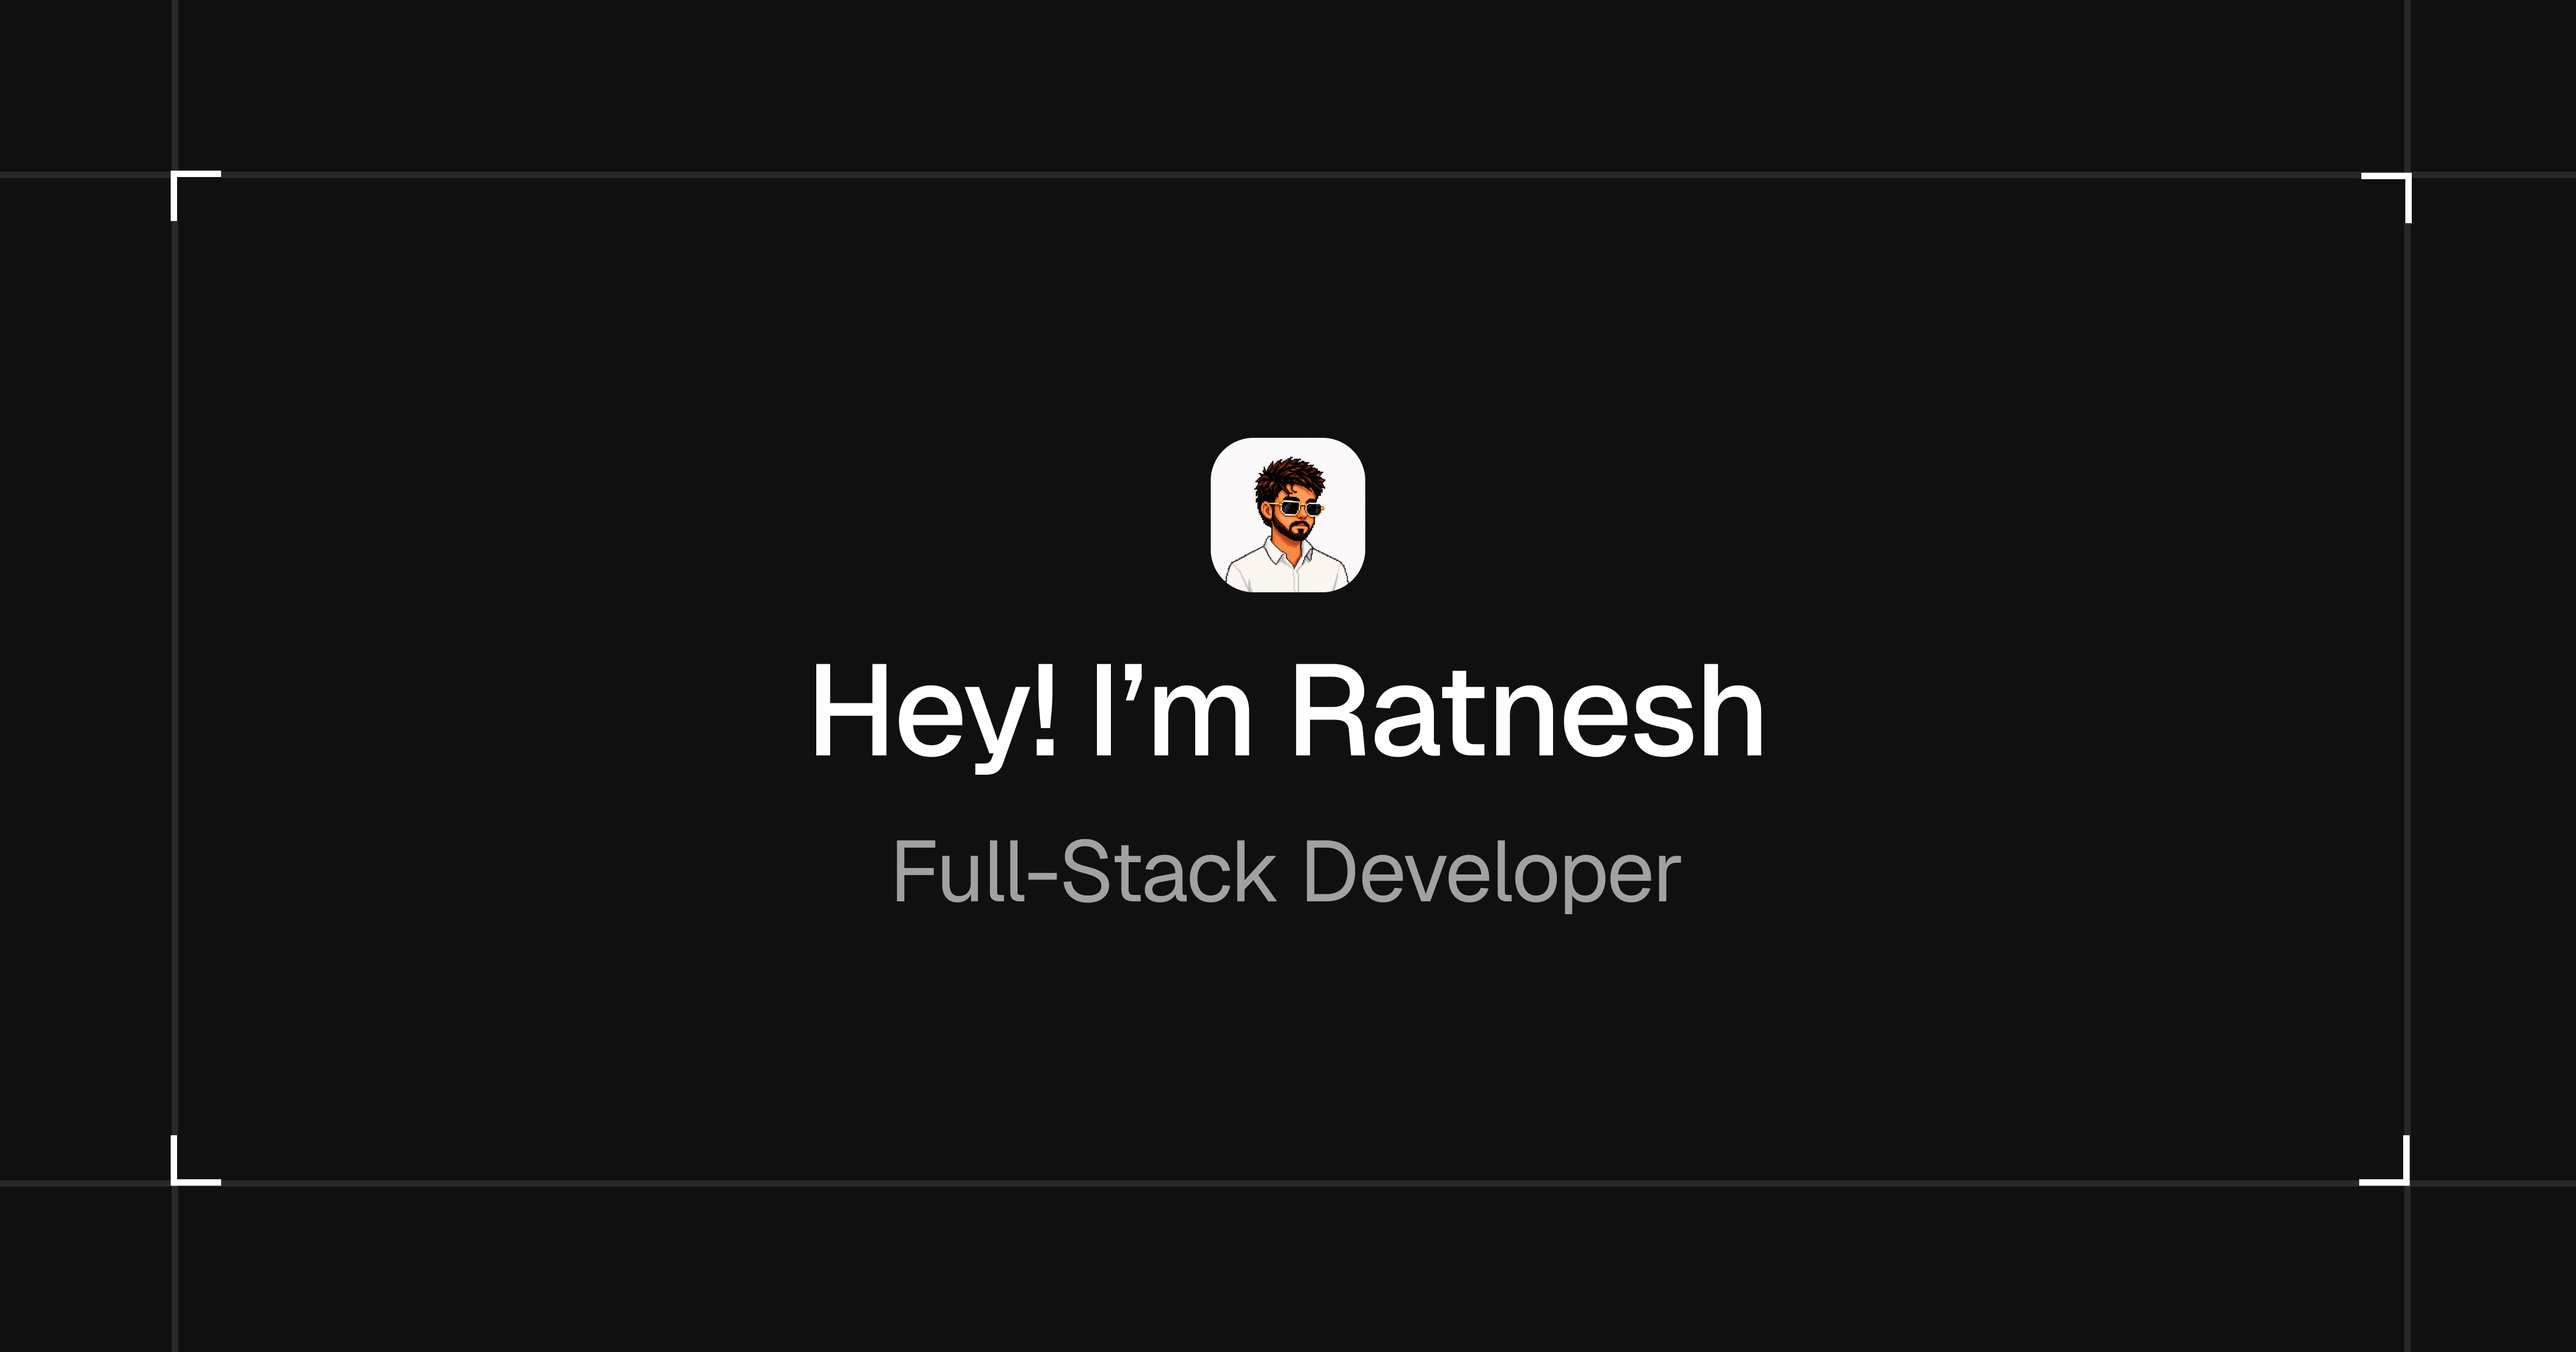
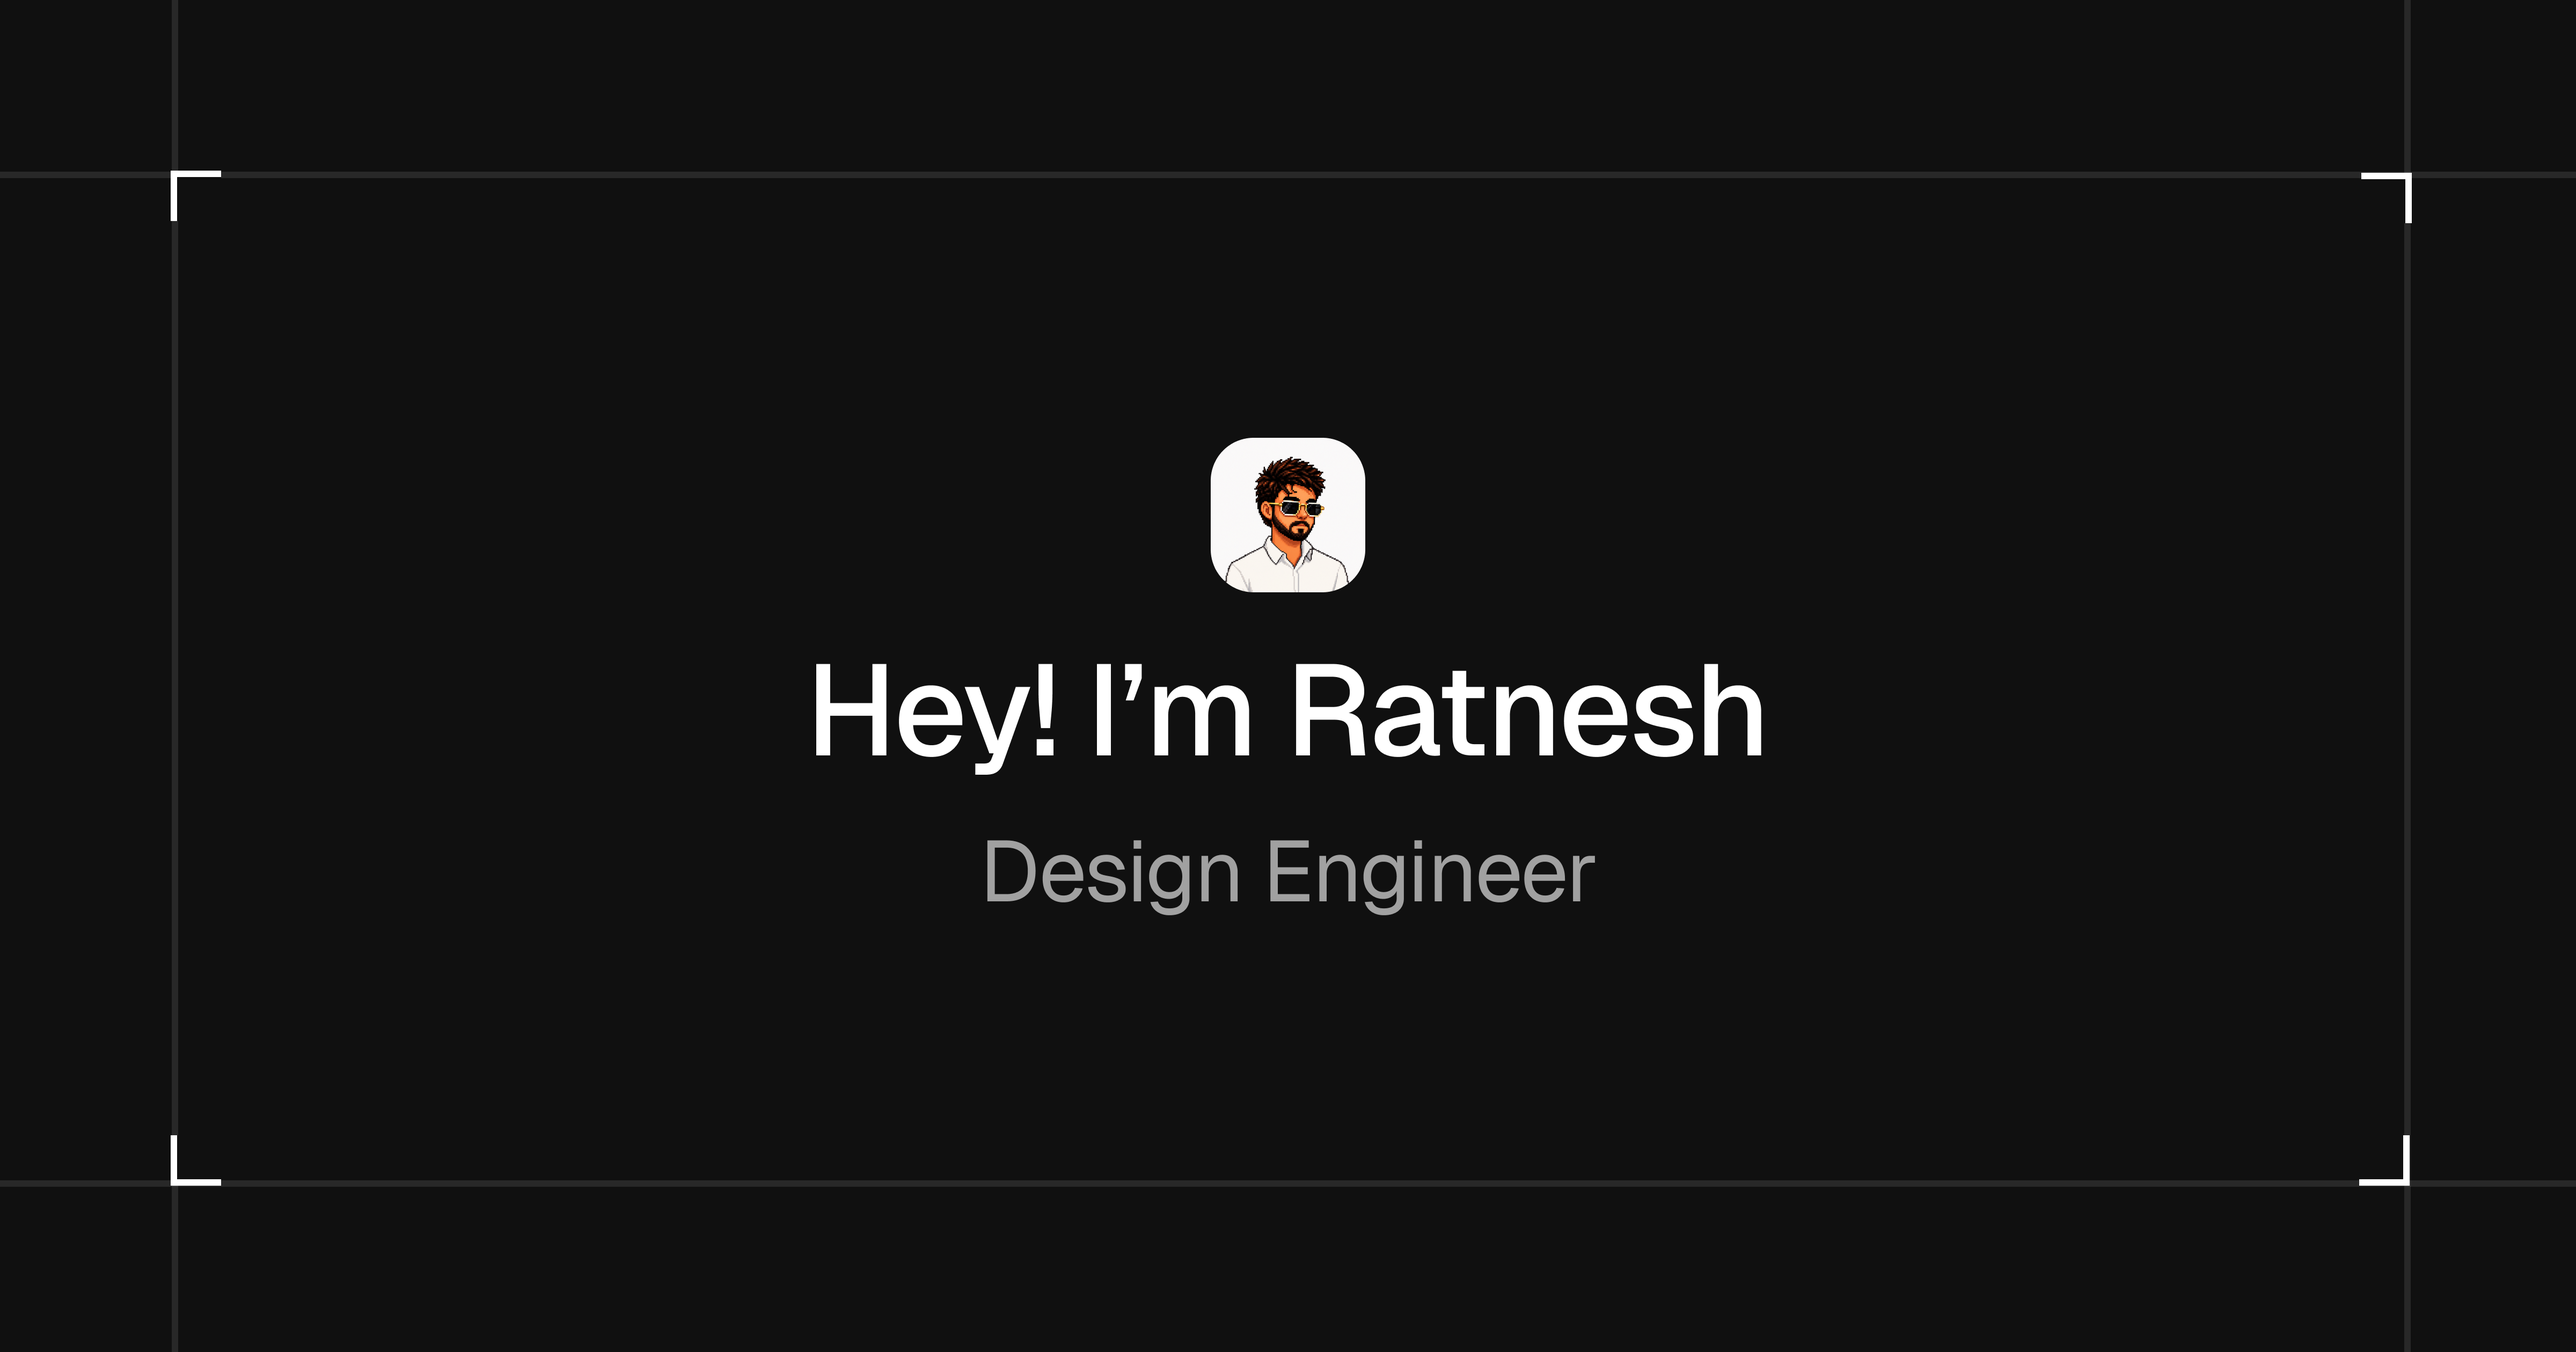
chore: transition title and role to design engineer

Changed region(s): [[0.3438, 0.619, 0.6562, 0.681]]

diff --git a/src/config/metadata.ts b/src/config/metadata.ts
@@ -5,7 +5,7 @@ import { SITE_CONFIG, X_USERNAME } from "./site";
 export const defaultWebsiteMetadata: Metadata = {
   metadataBase: new URL(SITE_CONFIG.url),
   title: {
-    default: `${SITE_CONFIG.name} \u2013 Developer`,
+    default: `${SITE_CONFIG.name} \u2013 Design Engineer`,
     template: `%s | ${SITE_CONFIG.name}`,
   },
   description: SITE_CONFIG.description,
@@ -21,7 +21,7 @@ export const defaultWebsiteMetadata: Metadata = {
     type: "website",
     locale: "en_US",
     url: SITE_CONFIG.url,
-    title: `${SITE_CONFIG.name} \u2013 Developer`,
+    title: `${SITE_CONFIG.name} \u2013 Design Engineer`,
     description: SITE_CONFIG.description,
     siteName: SITE_CONFIG.name,
     images: [
@@ -29,13 +29,13 @@ export const defaultWebsiteMetadata: Metadata = {
         url: SITE_CONFIG.ogImage,
         width: 1200,
         height: 630,
-        alt: `${SITE_CONFIG.name} \u2013 Developer`,
+        alt: `${SITE_CONFIG.name} \u2013 Design Engineer`,
       },
     ],
   },
   twitter: {
     card: "summary_large_image",
-    title: `${SITE_CONFIG.name} \u2013 Developer`,
+    title: `${SITE_CONFIG.name} \u2013 Design Engineer`,
     description: SITE_CONFIG.description,
     images: [SITE_CONFIG.ogImage],
     creator: X_USERNAME,
@@ -66,7 +66,7 @@ export function generateWebsiteMetadata({
   publishedTime,
   modifiedTime,
 }: GenerateMetadataParams = {}): Metadata {
-  const finalTitle = title || `${SITE_CONFIG.name} \u2013 Developer`;
+  const finalTitle = title || `${SITE_CONFIG.name} \u2013 Design Engineer`;
   const finalDescription = description || SITE_CONFIG.description;
   const finalImage = image || SITE_CONFIG.ogImage;
   const finalKeywords = keywords

diff --git a/src/features/portfolio/data/user.ts b/src/features/portfolio/data/user.ts
@@ -7,9 +7,9 @@ export const USER: User = {
   username: "ratneshchipre",
   address: "Maharashtra, India",
   website: "https://ratneshc.com",
-  jobTitle: "Full-Stack Web Developer",
+  jobTitle: "Design Engineer",
   about: `
-- I'm a 20yo Full-Stack Developer focused on building clean, scalable web products.
+- I'm a 20yo Design Engineer focused on building clean, scalable web products.
 - I love crafting elegant web experiences, shipping fast, and turning ideas into real products.
   `,
   avatar: "https://ratneshc.com/images/avatar.png",
@@ -21,9 +21,13 @@ export const USER: User = {
     "ratnesh chipre",
     "ratneshc portfolio",
     "ratnesh portfolio",
+    "design engineer",
+    "design engineer portfolio",
+    "ratnesh design engineer",
     "web developer",
     "frontend engineer",
     "ratneshchipre",
+    "tailwindcss",
     "typescript",
     "next.js",
   ],

diff --git a/src/config/site.ts b/src/config/site.ts
@@ -4,8 +4,7 @@ const baseUrl = process.env.NEXT_PUBLIC_APP_URL!;
 
 export const SITE_CONFIG = {
   name: "Ratnesh",
-  description:
-    "I'm Ratnesh, a Full-Stack Web Developer. I love to build products.",
+  description: "I'm Ratnesh, a Design Engineer. I love to build products.",
   url: baseUrl,
   ogImage: `${baseUrl}/images/opengraph-image.png`,
   links: {
@@ -20,8 +19,12 @@ export const SITE_CONFIG = {
     "ratnesh full stack developer",
     "ratnesh dev portfolio",
     "ratnesh portfolio",
+    "design engineer",
+    "design engineer portfolio",
+    "ratnesh design engineer",
     "ratnesh developer portfolio",
     "web developer",
+    "tailwindcss",
     "typescript",
     "react",
     "next.js",

diff --git a/src/components/portfolio/profile-header.tsx b/src/components/portfolio/profile-header.tsx
@@ -22,11 +22,7 @@ export default function ProfileHeader() {
             Ratnesh Chipre
           </h2>
           <BlurShimmerText
-            texts={[
-              "Full-Stack Developer",
-              "Design sense matters",
-              "Open Source with good taste",
-            ]}
+            texts={["Design Engineer", "Open Source", "Design sense matters"]}
             blur={4}
             interval={2}
             className="font-geist-pixel-square text-muted-foreground"

diff --git a/src/components/portfolio/overview/index.tsx b/src/components/portfolio/overview/index.tsx
@@ -7,7 +7,7 @@ export default function Overview() {
     <section className="font-geist-sans">
       <div>
         <p className="text-muted-foreground">
-          I&apos;m a 20yo Full-Stack Developer focused on building clean,
+          I&apos;m a 20yo Design Engineer focused on building clean,
           scalable web products. <br /> <br /> Currently, I&apos;m building{" "}
           <Link
             href="https://www.draftlogo.com/"
